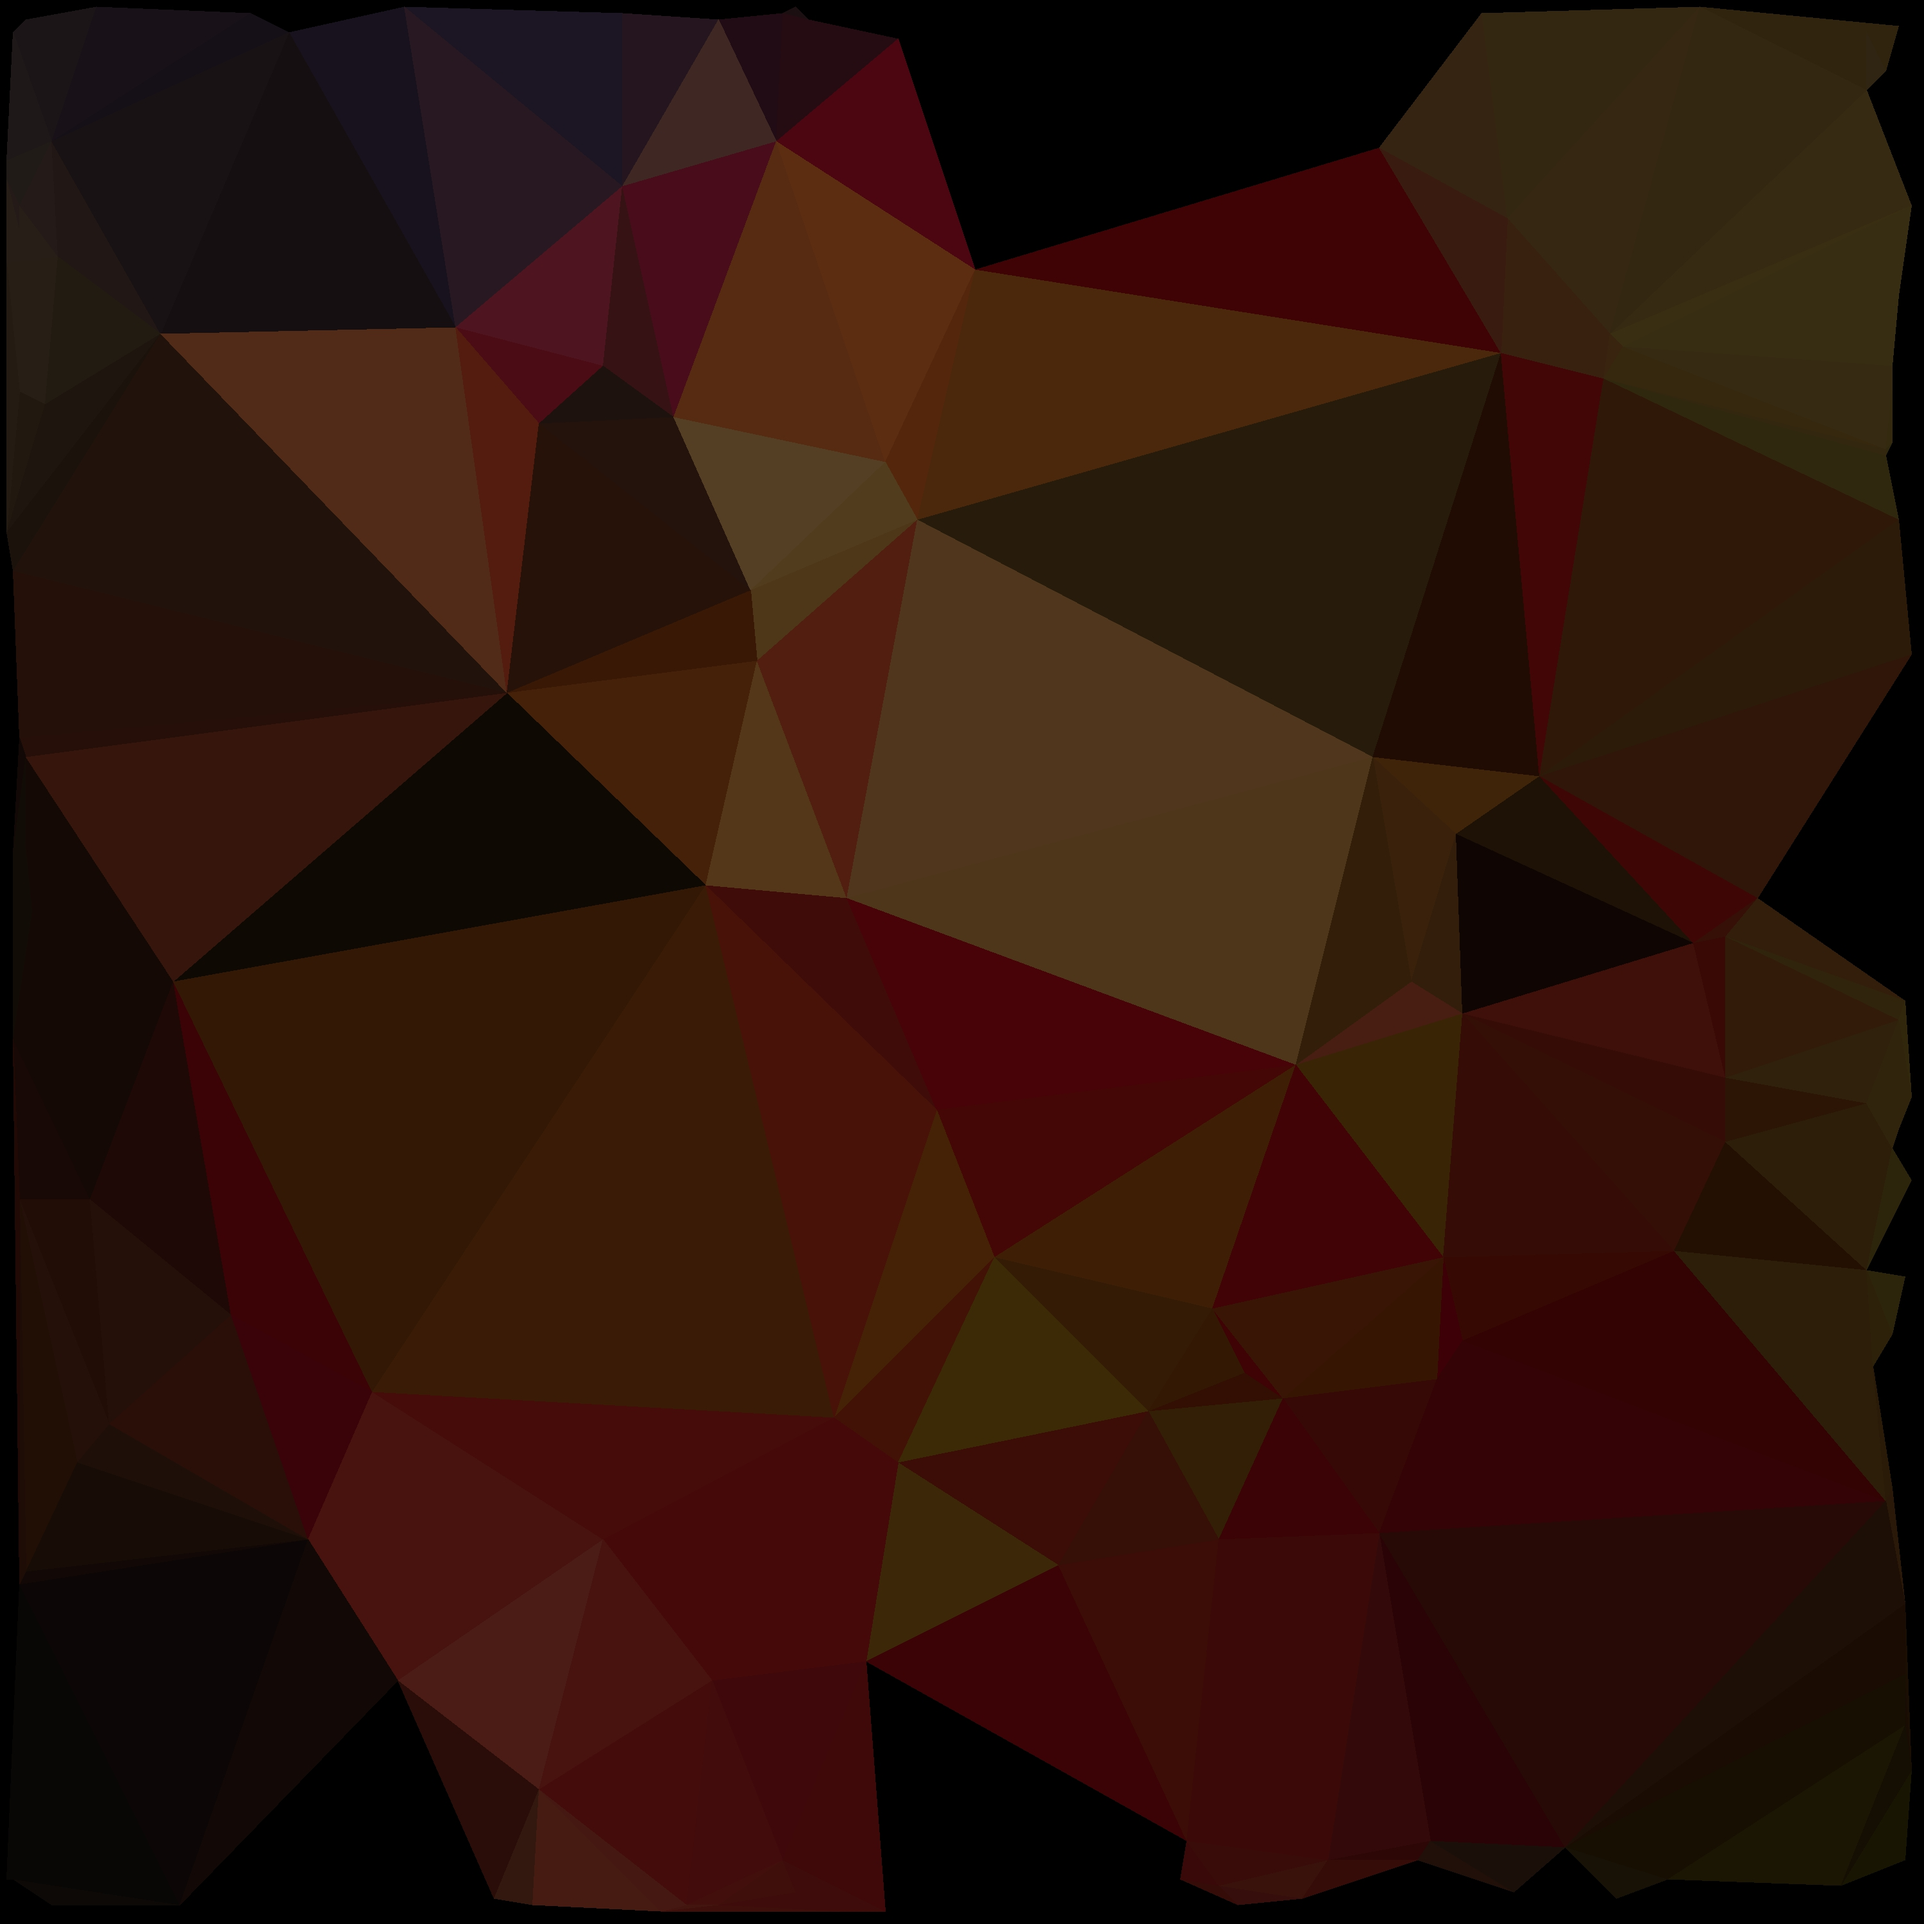
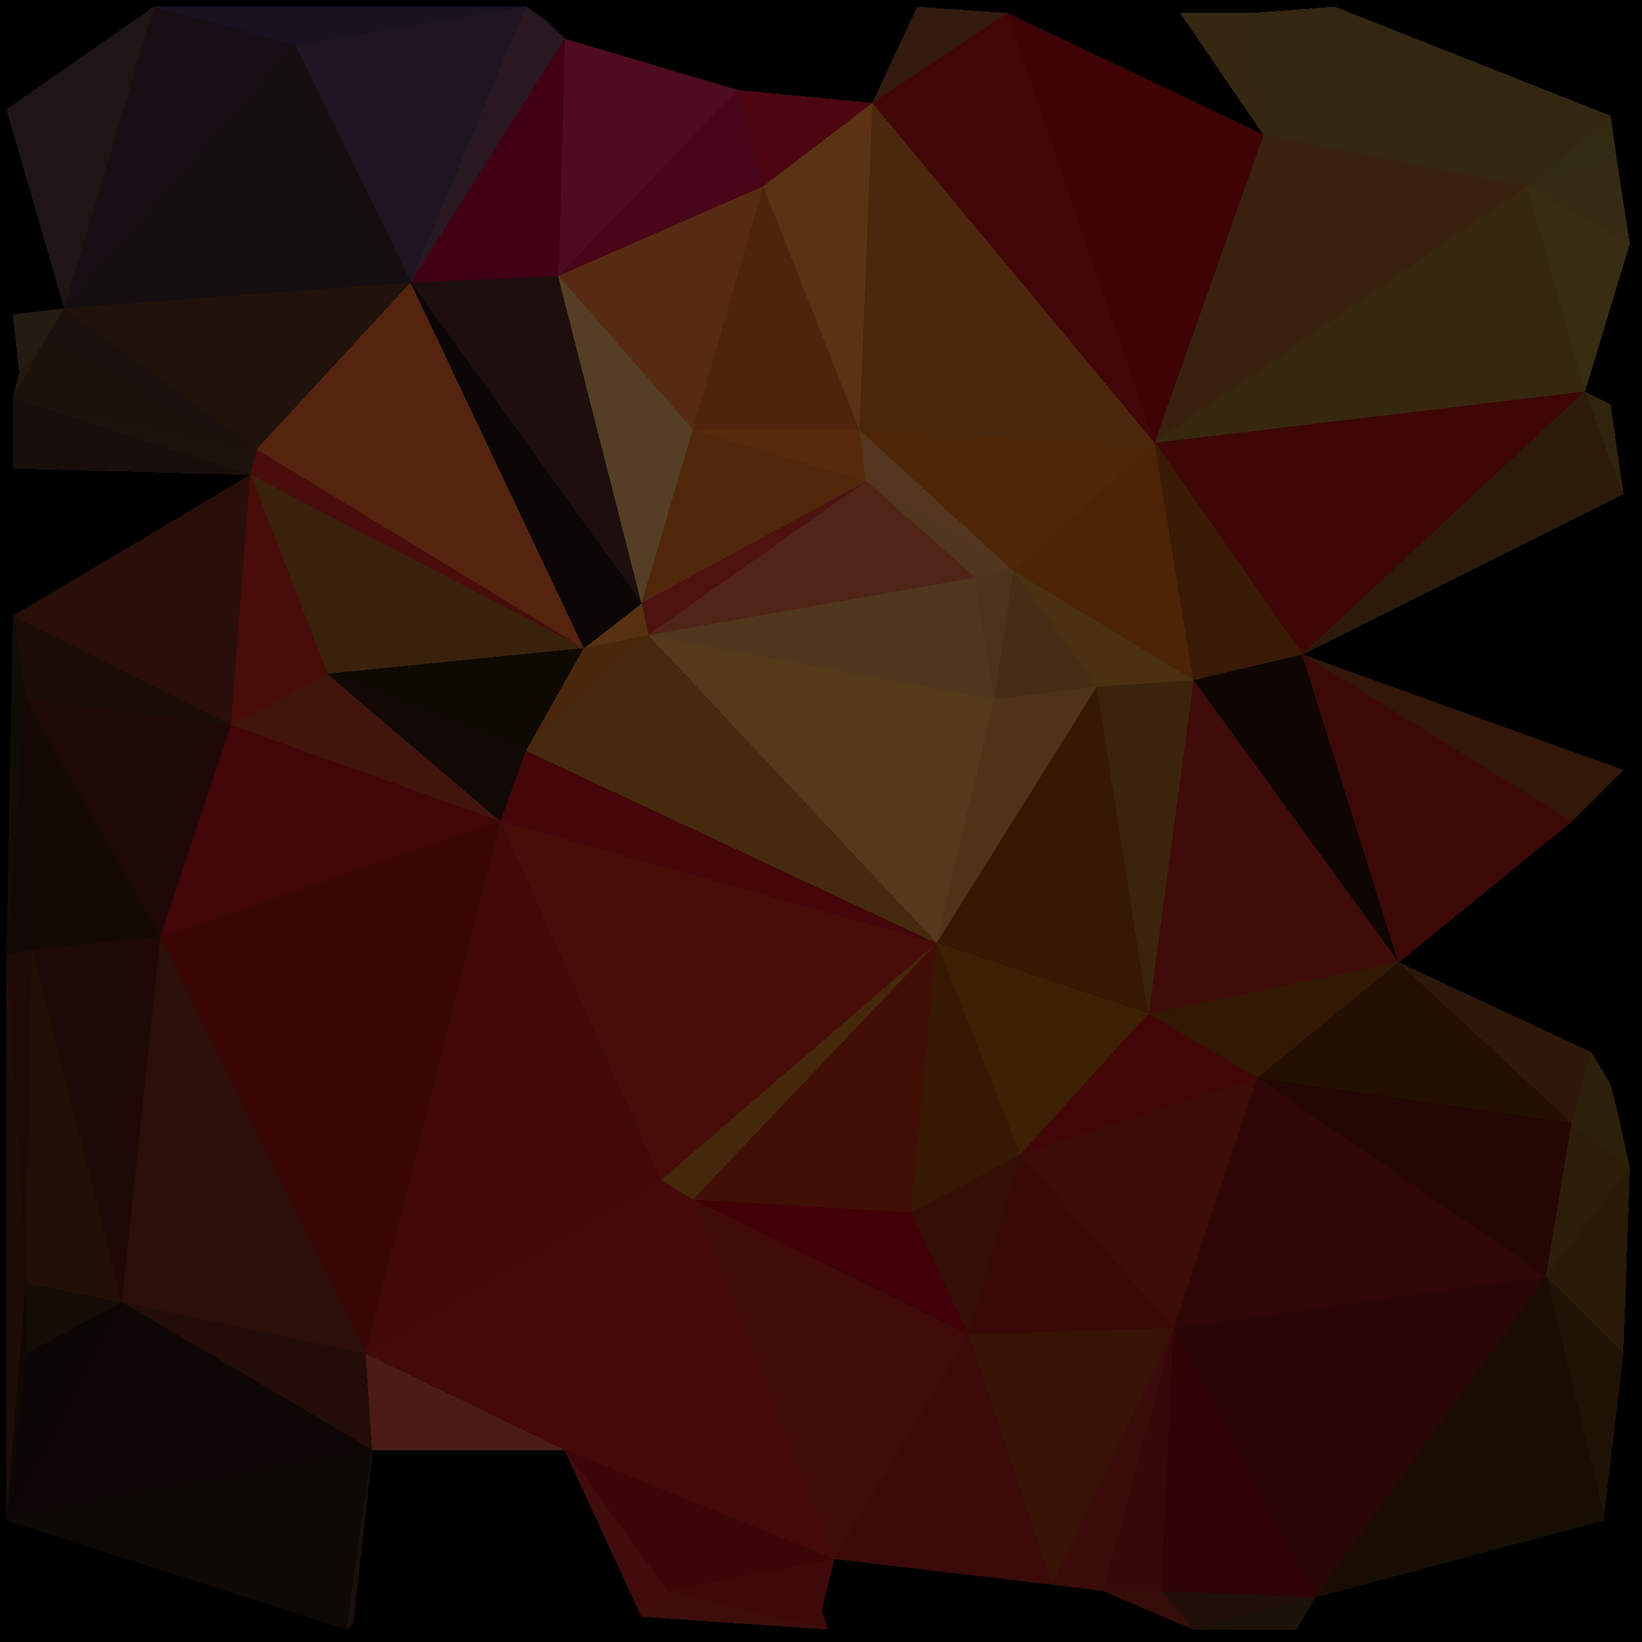
save update

diff --git a/drawTriangles.py b/drawTriangles.py
@@ -126,13 +126,16 @@ def drawImageColoredTriangles(triangles, filename, origIm, multiplier):
     color_data = []
     for t in triangles:
     #   print(i)
-        triangle_data.append(t[0])
-        triangle_data.append(t[1])
-        triangle_data.append(t[2])
+        triangle_data.append(t[0][0]-128)
+        triangle_data.append(t[0][1]-128)
+        triangle_data.append(t[1][0]-128)
+        triangle_data.append(t[1][1]-128)
+        triangle_data.append(t[2][0]-128)
+        triangle_data.append(t[2][1]-128)
         (r,g,b) = getTriangleColor(t, origIm)
-        color_data.append(r)
-        color_data.append(g)
-        color_data.append(b)
+        color_data.append(r-128)
+        color_data.append(g-128)
+        color_data.append(b-128)
         p0 = tuple(map(lambda x:x*multiplier, t[0]))
         p1 = tuple(map(lambda x:x*multiplier, t[1]))
         p2 = tuple(map(lambda x:x*multiplier, t[2]))
@@ -142,7 +145,10 @@ def drawImageColoredTriangles(triangles, filename, origIm, multiplier):
     im = brightenImage(im, 3.0)
     ImageFile.MAXBLOCK = im.size[0] * im.size[1]
     im.save(filename, "JPEG", quality=100, optimize=True, progressive=True)
-    mesh_data = triangle_data
+    #mesh_data = [len(triangles)]
+    mesh_data = []
+    for i in triangle_data:
+        mesh_data.append(i)
     for i in color_data:
         mesh_data.append(i)
     return mesh_data
@@ -197,7 +203,7 @@ def findPointsFromImage(im, th):
 def loadAndFilterImage(name):
     start = time.clock()
     orig = Image.open(name)
-    orig = orig.resize((300,300), Image.ANTIALIAS)
+    orig = orig.resize((256,256), Image.ANTIALIAS)
     im = orig.convert("L")
     im = im.filter(ImageFilter.GaussianBlur(radius=5))
     im = im.filter(ImageFilter.FIND_EDGES)

diff --git a/main.py b/main.py
@@ -155,7 +155,11 @@ class MainWindow(QMainWindow, mainwindow_auto.Ui_MainWindow):
         # triangle encode image
         tri_filename = "capture_1x.png"
         encoded_img_data_tri = t_encoder.encode(image, True, tri_filename, 1.8)
-        print(encoded_img_data_tri)
+        encoded_str = ""
+        for i in encoded_img_data_tri:
+            encoded_str = encoded_str + str(int(i)) + " "
+        print(encoded_str)
+    #    print(encoded_img_data_tri)
         print("tri data len: " + str(len(encoded_img_data_tri)))
         print("delaunay_" + tri_filename)
         image = QtGui.QImage("delaunay_" + tri_filename)

diff --git a/tri_encoder.py b/tri_encoder.py
@@ -33,7 +33,8 @@ class tri_encoder():
         b = cv2.imread("delaunay_" + filename)
     #    data = construct_tri_data()
     #    data2 = json.dumps(data)
-        data3 = zlib.compress(np.asarray(data))
+        print(data)
+        data3 = zlib.compress(np.int8(np.asarray(data)))
         return data3
 
     def construct_tri_data():
